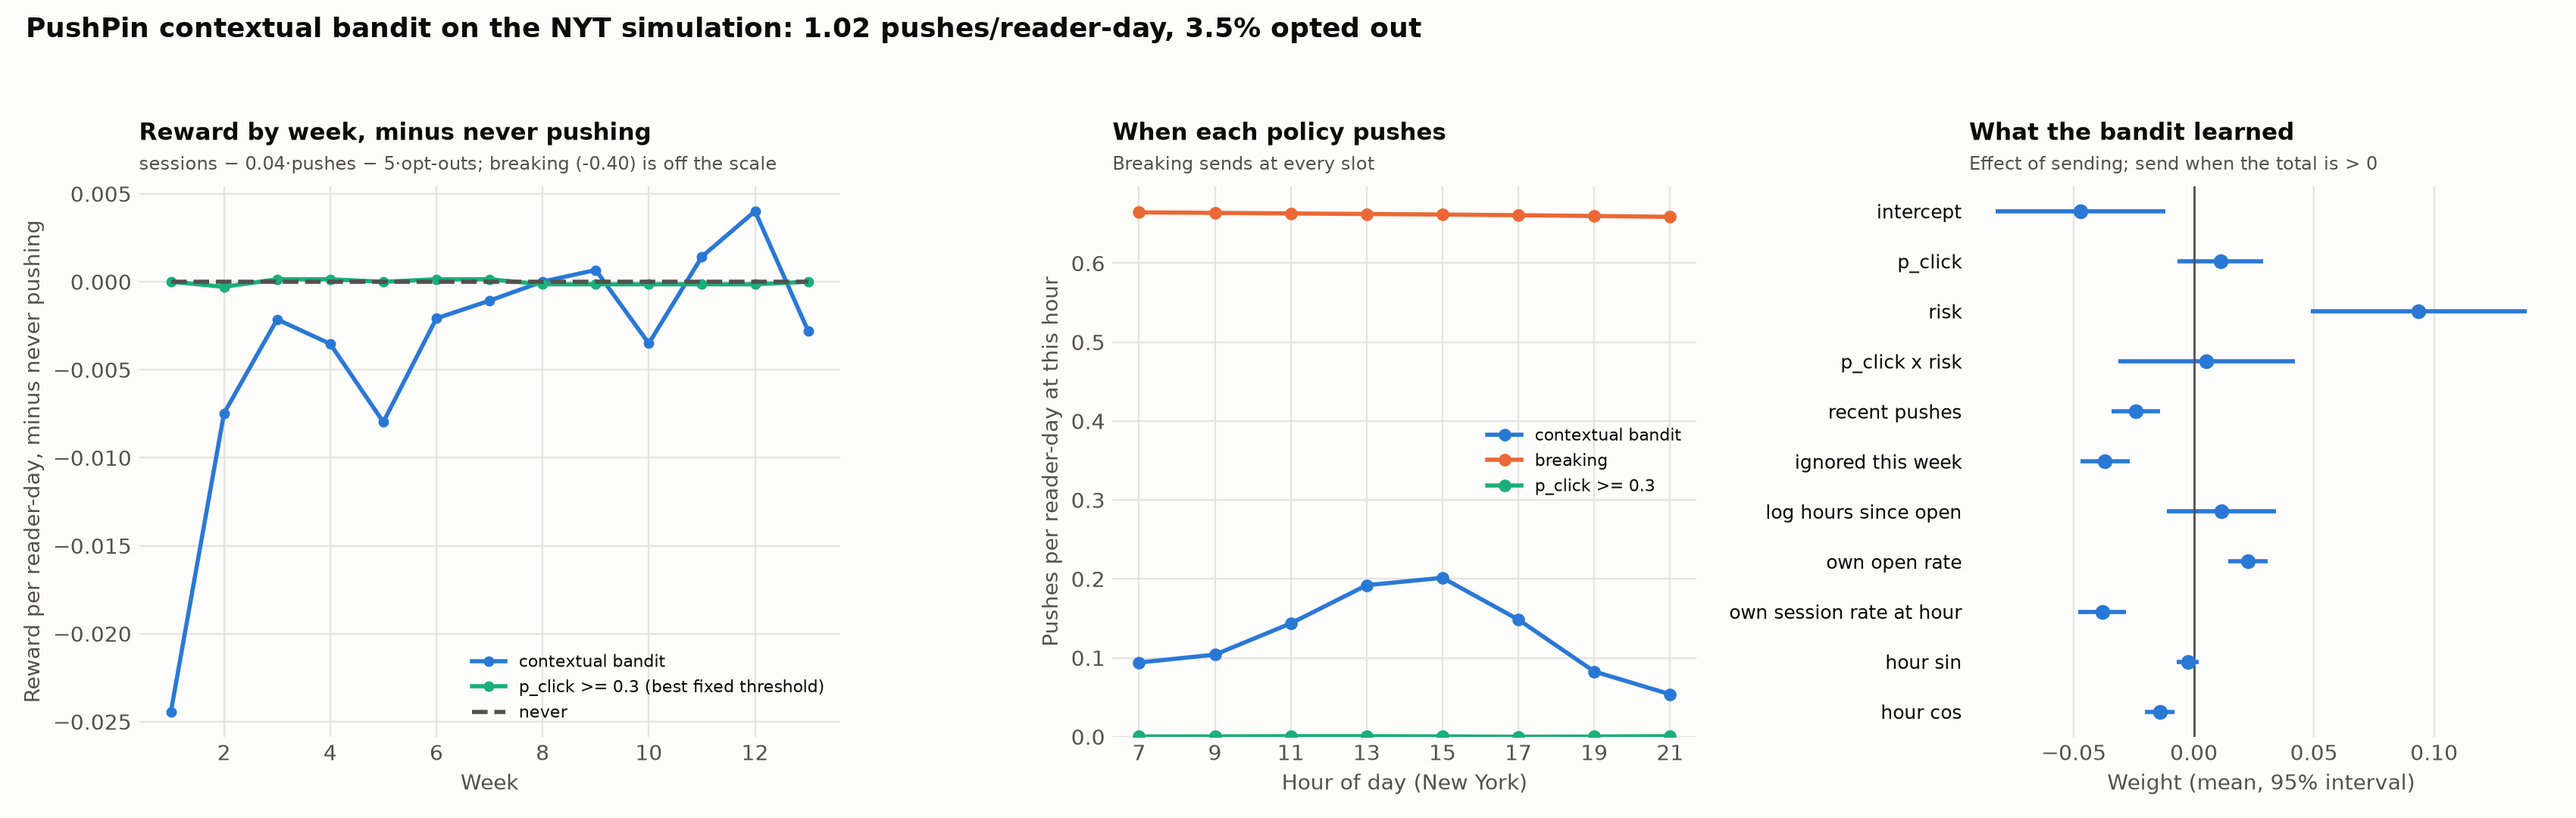
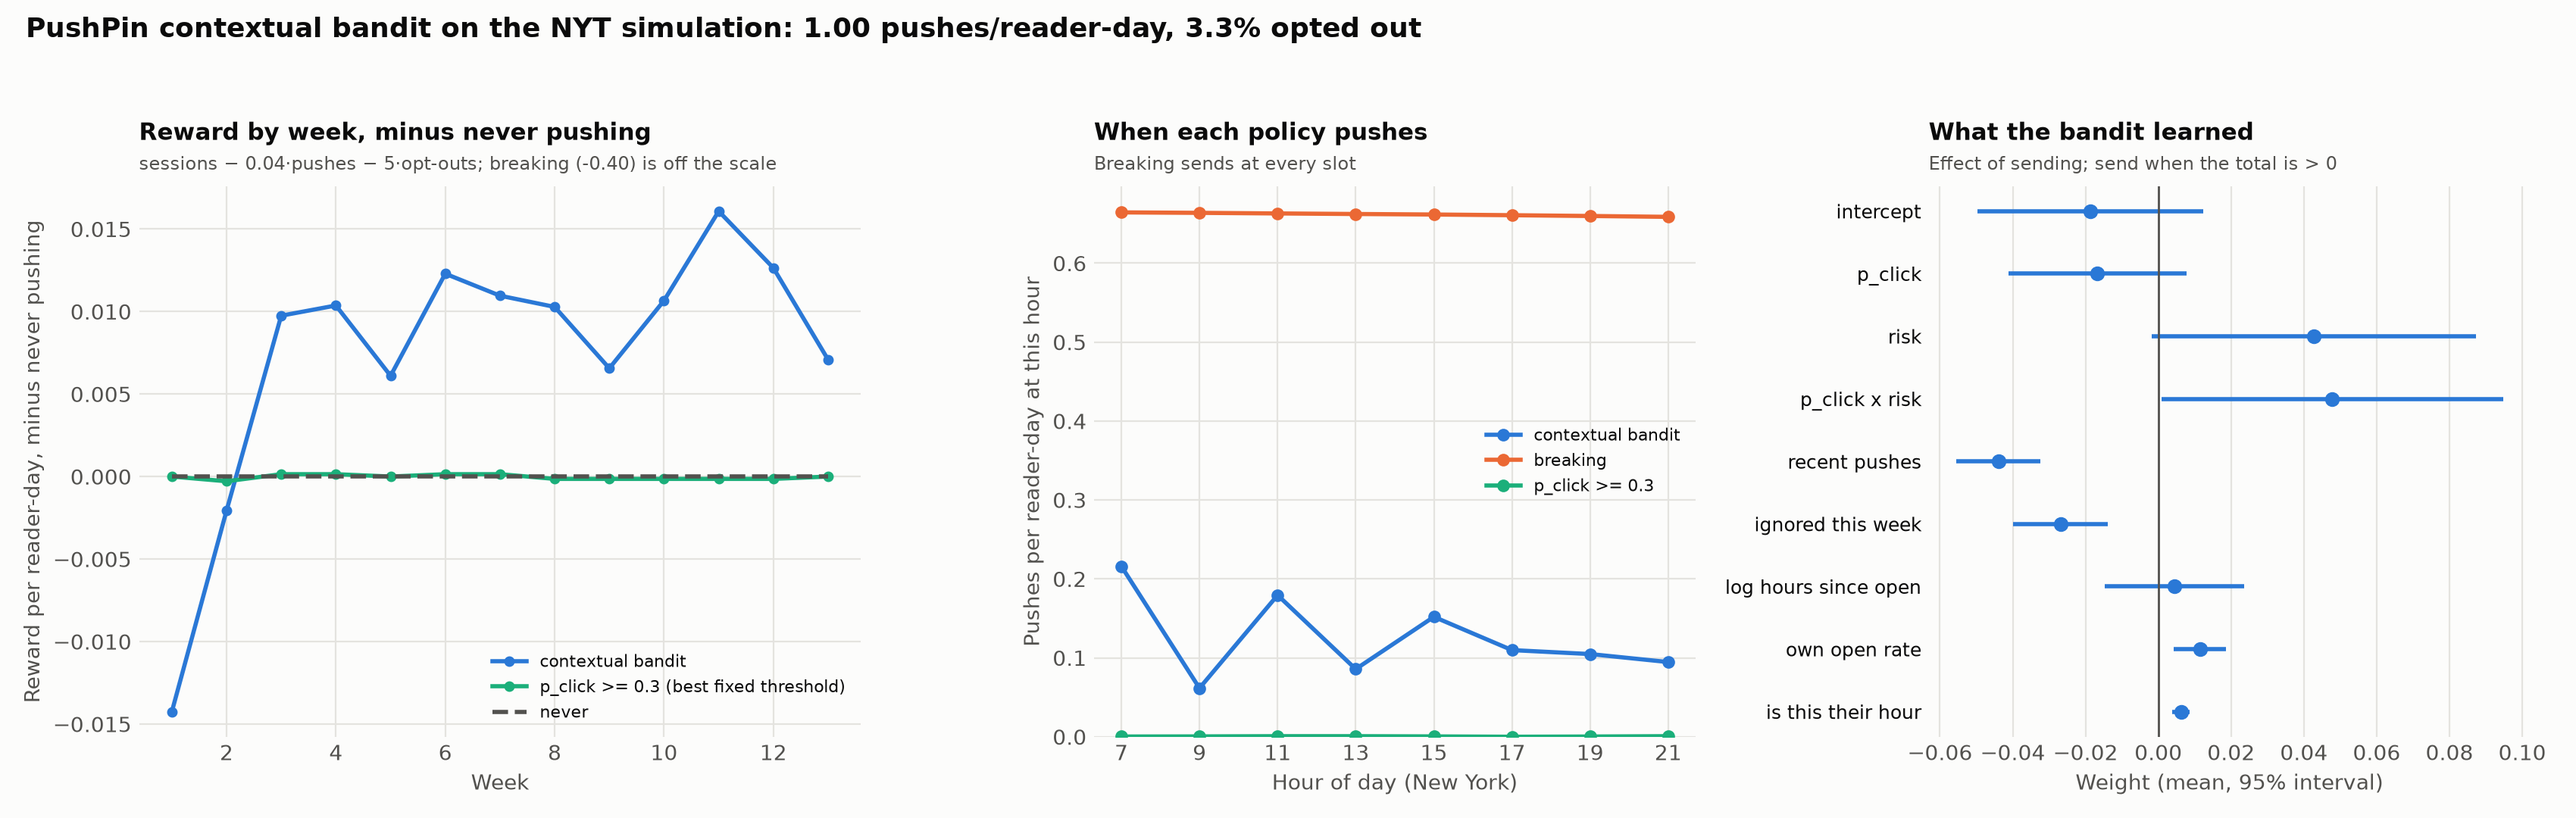
Bandit: personal timing instead of clock time; learn on reward minus the reader's organic rate
The hour sine/cosine pair drew one daily bump (midday) on noise; replaced by 'is this their hour'
(the reader's organic session rate at the hour over their own average, from slots without a push).
The learned weight still pointed away from readers' best hours: the linear model's misfit of the
multiplicative organic baseline leaked into the effect weights because sends aren't random.
Subtracting the reader's own organic rate at the hour from the reward fixes it (sends now 28% at a
reader's best hours vs 5% at their worst).

Results: +0.002 to +0.016 a reader-day vs never at lambda 0.02-0.04, where any fixed threshold gets ~0;
slightly negative at lambda 0.08. analysis.md gains the bandit's objective, model and decision rule.

diff --git a/src/pushpin/bandit.py b/src/pushpin/bandit.py
@@ -3,7 +3,8 @@
 XGBoost answers "which article?" (p_click, p_return). The bandit answers "send it now or not?"
 for the top pick at every slot, from context XGBoost doesn't model: how recently the reader was
 pushed, how many pushes they ignored this week, how long since they last opened one, their own
-open rate on our pushes, and when in the day they tend to come back. It maximizes
+open rate on our pushes, and whether this is an hour they tend to come back (relative to their
+own average, so it's separate from how often they come back at all). It maximizes
 
     reward = sessions - lambda * pushes - V * opt-outs        (lambda, V set by hand, in sessions)
 
@@ -35,7 +36,7 @@ import pandas as pd
 import yaml
 
 FEATURES = ["intercept", "p_click", "risk", "p_click x risk", "recent pushes", "ignored this week",
-            "log hours since open", "own open rate", "own session rate at hour", "hour sin", "hour cos"]
+            "log hours since open", "own open rate", "is this their hour"]
 
 
 # --- data -----------------------------------------------------------------------------------------
@@ -124,8 +125,10 @@ class LinearThompson:
 
 # --- the planted world, one policy over `weeks` -----------------------------------------------------
 
-def simulate(data: dict, traits: dict, cfg: dict, policy: str, lam: float, V: float, threshold: float | None = None):
-    """Run one policy. Returns per-slot totals (sessions, pushes, opens, opt-outs, reward) and the bandit."""
+def simulate(data: dict, traits: dict, cfg: dict, policy: str, lam: float, V: float, threshold: float | None = None,
+             trace: list | None = None):
+    """Run one policy. Returns per-slot totals (sessions, pushes, opens, opt-outs, reward) and the bandit.
+    With `trace` (a list), appends a per-decision frame for subscribed readers (diagnostics)."""
     p, seed, n = cfg["planted"], cfg["seed"], data["n"]
     slots_per_day = len(traits["day_hours"])
     days = 7 * cfg["weeks"]
@@ -175,11 +178,15 @@ def simulate(data: dict, traits: dict, cfg: dict, policy: str, lam: float, V: fl
 
             recent = (now - last_push < cfg["fatigue_hours"]).sum(axis=1)
             open_rate = (opens_n + 0.1) / (pushes_n + 2)
-            sess_rate = (sess_h[:, j] + 0.3) / (seen_h[:, j] + 2)
+            # "is this their hour?": the reader's session rate at this hour relative to their own
+            # average, from slots without a push (so our pushes don't feed back into it). It's
+            # separate from how often they come back at all, which risk already covers.
+            rate_here = (sess_h[:, j] + 0.3) / (seen_h[:, j] + 2)
+            rate_all = (sess_h.sum(axis=1) + 0.3 * slots_per_day) / (seen_h.sum(axis=1) + 2 * slots_per_day)
+            their_hour = rate_here / rate_all - 1
             z = np.column_stack([
                 np.ones(n), 10 * pc, 1 - pr, 10 * pc * (1 - pr), recent, ignored_by_day.sum(axis=1) / 10,
-                np.log1p(np.minimum(now - last_open, 168)) / 5, 10 * open_rate, 5 * sess_rate,
-                np.full(n, np.sin(2 * np.pi * hour / 24)), np.full(n, np.cos(2 * np.pi * hour / 24))])
+                np.log1p(np.minimum(now - last_open, 168)) / 5, 10 * open_rate, 2 * their_hour])
 
             can = active & avail
             if policy == "never":
@@ -203,15 +210,23 @@ def simulate(data: dict, traits: dict, cfg: dict, policy: str, lam: float, V: fl
             optout = ignored & (u_opt < p["optout_hazard"] * risk_mult * annoy / tol)
             reward = session - lam * send - V * optout
 
+            if trace is not None:
+                trace.append(pd.DataFrame({"day": day, "hour": int(hour), "reader": readers[active],
+                                           "their_hour": their_hour[active], "pref": pref[active],
+                                           "risk": 1 - pr[active], "send": send[active], "tau": tau[active],
+                                           "session": session[active], "reward": reward[active]}))
             if bandit is not None:  # learn from the decisions of readers still subscribed
-                bandit.add(z[active], send[active].astype(float), reward[active])
+                # subtract the reader's own organic session rate at this hour (estimated from slots
+                # without a push), so the model only explains what a push adds: a misfit baseline
+                # would otherwise leak into the effect weights, since sends aren't random
+                bandit.add(z[active], send[active].astype(float), (reward - rate_here)[active])
             pushed[readers[send], art[send]] = True
             last_push[send] = np.column_stack([last_push[send, 1:], np.full(send.sum(), now)])
             last_open[opened] = now
             pushes_n += send
             opens_n += opened
-            sess_h[:, j] += session
-            seen_h[:, j] += 1
+            sess_h[:, j] += session & ~send   # organic sessions only (see their_hour)
+            seen_h[:, j] += ~send
             ignored_by_day[:, day % 7] += ignored
             active &= ~optout
             rows.append({"day": day, "week": day // 7, "hour": int(hour), "sessions": int(session.sum()),

diff --git a/docs/bandit.md b/docs/bandit.md
@@ -65,11 +65,18 @@ skip from a context vector z:
 | pushes ignored this week | annoyance |
 | log hours since the last open | how engaged they are right now |
 | the reader's open rate on our pushes | their own response to *us* |
-| the reader's session rate at this hour | when they tend to come back |
-| hour of day (sin, cos) | population timing |
+| is this their hour: their organic session rate at this hour ÷ their own average, from slots without a push | personal timing, kept separate from how often they come back at all (which risk covers) |
 
-The model is a Bayesian linear regression of each decision's reward on `[z, send × z]`, with a
-Gaussian prior. The `send × z` weights θ are the effect of sending. **Thompson sampling** draws
+There's no clock-time feature. An earlier version had hour of day as a sine/cosine pair, which
+can only draw one bump per day. With the true average effect flat across hours, that bump landed
+at midday on noise.
+
+The model is a Bayesian linear regression on `[z, send × z]`, with a Gaussian prior. The target
+is each decision's reward minus the reader's own organic session rate at that hour (estimated
+from slots without a push), so the model only has to explain what a push adds. Without that, the
+linear model's misfit of the organic baseline (which is really `p_return × preference`) leaked
+into the effect weights, because sends aren't random. The bandit then learned to push *away*
+from readers' best hours, where the true effect is 2× larger. The `send × z` weights θ are the effect of sending. **Thompson sampling** draws
 θ from the posterior once per reader-day and sends when θ · z > 0. The posterior is refit every
 simulated night from all decisions so far (a batched bandit). Because z contains `p_click`, the
 rule is a threshold on `p_click` that moves with context: it rises after recent or ignored
@@ -118,28 +125,28 @@ Reward relative to never pushing, per reader-day, over 13 weeks:
 
 | λ | V | Bandit | Bandit pushes/day | Bandit opted out | Best threshold (c) | Best threshold | Breaking |
 |---|---|---|---|---|---|---|---|
-| 0.02 | 2 | **+0.0131** | 1.76 | 7.4% | 0.2 | +0.0003 | −0.27 |
-| 0.02 | 5 | **+0.0102** | 1.72 | 8.2% | 0.2 | +0.0003 | −0.29 |
-| 0.02 | 20 | **+0.0024** | 1.39 | 6.0% | 0.2 | +0.0003 | −0.39 |
-| 0.04 | 2 | −0.0027 | 1.03 | 2.8% | 0.3 | −0.0000 | −0.38 |
-| 0.04 | 5 | −0.0038 | 1.02 | 3.5% | 0.3 | −0.0000 | −0.40 |
-| 0.04 | 20 | −0.0058 | 0.86 | 2.5% | 0.3 | −0.0000 | −0.50 |
-| 0.08 | 2 | −0.0082 | 0.25 | 0.7% | 0.3 | −0.0002 | −0.59 |
-| 0.08 | 5 | −0.0079 | 0.22 | 0.6% | 0.3 | −0.0002 | −0.61 |
-| 0.08 | 20 | −0.0096 | 0.26 | 0.5% | 0.3 | −0.0002 | −0.71 |
+| 0.02 | 2 | **+0.0130** | 1.60 | 5.3% | 0.2 | +0.0003 | −0.27 |
+| 0.02 | 5 | **+0.0160** | 1.47 | 4.5% | 0.2 | +0.0003 | −0.29 |
+| 0.02 | 20 | **+0.0107** | 1.22 | 3.9% | 0.2 | +0.0003 | −0.39 |
+| 0.04 | 2 | **+0.0018** | 0.86 | 2.9% | 0.3 | −0.0000 | −0.38 |
+| 0.04 | 5 | **+0.0074** | 1.00 | 3.3% | 0.3 | −0.0000 | −0.40 |
+| 0.04 | 20 | **+0.0042** | 0.83 | 3.5% | 0.3 | −0.0000 | −0.50 |
+| 0.08 | 2 | −0.0060 | 0.52 | 1.3% | 0.3 | −0.0002 | −0.59 |
+| 0.08 | 5 | −0.0077 | 0.55 | 1.3% | 0.3 | −0.0002 | −0.61 |
+| 0.08 | 20 | −0.0039 | 0.47 | 0.8% | 0.3 | −0.0002 | −0.71 |
 
 - **Breaking is far worse everywhere.** Over 99% of its pushes are ignored, annoyance builds, and
   59% of readers turn notifications off.
-- **When pushes are cheap (λ = 0.02), the bandit is the only policy that gains**: +0.002 to
-  +0.013 a reader-day, while the best fixed threshold gets about zero.
-- **When pushes are expensive (λ ≥ 0.04), pushing barely pays in this world.** After
-  annoyance, the average push causes about 0.04 extra sessions, so the right answer is "almost
-  never push". A very high fixed threshold (0.2–0.3, under 0.05 pushes a day) gets there; the
-  bandit keeps pushing (1.0, then 0.25 a day) and ends 0.003–0.010 below never.
-- **The bandit reacts to the prices in the right direction.** It pushes less as λ rises
-  (1.7 → 1.0 → 0.25 a day) and as V rises (fewer opt-outs).
-- **It's still learning at 13 weeks.** At λ = 0.04, V = 5, its weekly reward climbs from −0.025
-  in week 1 to around 0 from week 8 on (left panel below).
+- **At λ = 0.02 and 0.04, the bandit is the only policy that gains:** +0.002 to +0.016 a
+  reader-day over never pushing, while the best fixed threshold gets about zero. A rule
+  without context can't find pushes worth their cost; the bandit finds them by reader and moment.
+- **At λ = 0.08, pushing doesn't pay in this world**, and the right answer is "almost never
+  push". A very high fixed threshold (0.3, under 0.01 pushes a day) gets there. The bandit pushes
+  about 0.5 a day and ends 0.004–0.008 below never.
+- **It reacts to the prices in the right direction.** It pushes less as λ rises
+  (1.2–1.6 → 0.8–1.0 a day) and as V rises.
+- **It learns within weeks.** At λ = 0.04, V = 5 it loses in week 1 (−0.014, exploring) and is
+  ahead of never pushing from week 3 on (+0.006 to +0.016 a week; left panel below).
 
 ## What it learned
 
@@ -147,16 +154,18 @@ Reward relative to never pushing, per reader-day, over 13 weeks:
 
 Posterior means of the effect-of-sending weights at λ = 0.04, V = 5:
 
-- **Risk: +0.094 (± 0.023).** Push at-risk readers more, even though they quit more easily
-  when annoyed. Here the larger effect wins, which is the opposite sign to the old rule's
-  `+0.04 × (1 − p_return)` in the threshold.
-- **Push history:** recent pushes −0.024, pushes ignored this week −0.037, the reader's own open
-  rate +0.023. Back off after pushes and after ignored ones; keep pushing readers who open.
-- **Own session rate at this hour: −0.038.** It pushes less at hours a reader comes back anyway,
-  since the push has less to add then.
-- **Timing:** most pushes go out at 13–15, fewest at 7 and 21 (middle panel).
-- **`p_click`: +0.011 (± 0.009), small and uncertain.** The learned bar depends mostly on risk
-  and push history, not on how appealing the pick is.
+- **Risk: +0.043, and p_click × risk: +0.048.** Push at-risk readers more, and more so when the
+  pick is appealing, even though at-risk readers quit more easily when annoyed. Here the larger
+  effect wins: the opposite of the old rule's `+0.04 × (1 − p_return)` in the threshold.
+- **Push history:** recent pushes −0.044, pushes ignored this week −0.027, the reader's own open
+  rate +0.011. Back off after pushes and after ignored ones; keep pushing readers who open.
+- **Is this their hour: +0.006 per unit (± 0.001).** It pushes at readers' own best times: in
+  the last three weeks it sends 28% of decisions at a reader's best hours and 5% at their worst,
+  where the true effect is about half as large. Because of the 4-hour fatigue window, a push at
+  7 makes 9 costly, so pushes per hour alternate (middle panel).
+- **`p_click` alone: −0.017 (± 0.012), uncertain.** Its effect shows up through the
+  interaction with risk instead: an appealing pick is worth sending mainly to readers who
+  wouldn't come back on their own.
 
 ## Limitations
 
@@ -165,11 +174,12 @@ Posterior means of the effect-of-sending weights at λ = 0.04, V = 5:
 - **Carryover isn't credited.** Each decision's reward is its own slot's session, push cost and
   opt-out. An ignored push also lowers later effects and opens (annoyance decays over days), and
   that later cost isn't charged to the push that caused it. This is the likely reason the bandit
-  over-pushes at λ ≥ 0.04. Fixes: a longer reward window per decision, or pricing annoyance
+  over-pushes at λ = 0.08. Fixes: a longer reward window per decision, or pricing annoyance
   directly (a third price), or a reinforcement-learning view of the reader's state.
 - **Exploration cost.** Thompson sampling keeps trying sends while uncertain; with 1,000 readers
   that cost is visible over 13 weeks.
-- **Linear in z.** Interactions beyond `p_click × risk` aren't modeled.
+- **Linear in z.** Interactions beyond `p_click × risk` aren't modeled. The organic baseline is
+  subtracted using the bandit's own estimate, which is noisy for new readers.
 - **Live needs an outcome without a push.** The reward needs sessions in both arms. Live, that
   means per-reader delivery (one ntfy topic per reader) and an observable visit (e.g. opening
   `/me`); see [uplift.md](uplift.md#live-data).

diff --git a/docs/analysis.md b/docs/analysis.md
@@ -1,4 +1,4 @@
-# Analysis: objective, calibration, send policy, user behavior, tuning
+# Analysis: objective, calibration, send policy, the bandit's objective, user behavior, tuning
 
 Deep dives behind the numbers in the [README](../README.md). Images are produced by `src/pushpin/plots.py`.
 
@@ -151,6 +151,66 @@ Raising the threshold trades volume for quality as intended. At the default, low
 0.82 pushes/day at 9.3% CTR and high-risk users 0.15/day at 5.3%. The model over-predicts
 on this slice, most for high-risk users, which is the impression-size caveat above plus a sign
 that a production calibrator should be fit per user segment.
+
+## Send decision: the contextual bandit's objective
+
+The fixed send policy above is being replaced by a contextual bandit (simulation only so far;
+full write-up and results in [bandit.md](bandit.md)). XGBoost still picks the article. The bandit
+decides, for that pick, whether to send it now.
+
+**The objective.** Maximize the expected total reward over all readers and slots:
+
+```
+maximize  E[ Σ over readers r and slots t of  reward(r, t) ]
+
+reward(r, t) = session(r, t) − λ · send(r, t) − V · optout(r, t)
+```
+
+- `session` = 1 if the reader comes back in that slot's window, whether or not a push was sent.
+- `send` = 1 if a push went out. λ is the cost of one push, in sessions (default 0.04: a push
+  must cause at least 1 extra visit per 25 sends).
+- `optout` = 1 if the reader turned notifications off then. V is the cost of losing them, in
+  sessions (default 5: about 180 days × ~1 push a day × ~0.03 net per push).
+
+λ and V are prices set by hand, not learned; results are reported across
+λ ∈ {0.02, 0.04, 0.08} × V ∈ {2, 5, 20}.
+
+**The model.** For each decision with context z (`p_click`, risk = 1 − `p_return`, their
+product, recent pushes, pushes ignored this week, log hours since the last open, the reader's
+open rate on our pushes, and whether this is their hour), a Bayesian linear regression:
+
+```
+reward − ŷ0  =  β · z  +  send · (θ · z)  +  noise,     noise ~ N(0, σ²),  (β, θ) ~ N(0, τ0² I)
+```
+
+ŷ0 is the reader's own organic session rate at that hour, estimated from slots without a push.
+Subtracting it leaves the model only what a push adds. θ · z is the **effect of sending**: the
+expected change in reward from sending rather than skipping.
+
+**The decision rule (Thompson sampling).** Once per reader-day, draw θ̃ from the posterior and
+
+```
+send  if  θ̃ · z > 0
+```
+
+The posterior is refit every night from all decisions so far (σ = 0.4, τ0 = 1). Drawing θ̃
+rather than using its mean is the exploration: uncertain weights sometimes say "send", which
+gathers the data that resolves them.
+
+**As a threshold.** Because z contains `p_click`, alone and times risk, the rule rearranges into a
+threshold on `p_click` that moves with context:
+
+```
+send  if  p_click ≥ threshold(z) = − θ̃_rest · z_rest / (θ̃_pclick + θ̃_pclick×risk · risk)
+```
+
+where `θ̃_rest · z_rest` is the sum over every other feature. It reads as a threshold only when
+the denominator is positive, i.e. a more appealing pick makes sending better for that reader.
+Compared with the fixed rule `0.07 + 0.04 · (1 − p_return)`:
+- the risk term's size and sign are learned, not fixed at +0.04;
+- the bar rises after recent and ignored pushes;
+- it falls at the reader's own best hours;
+- there is no daily cap: the weights on recent and ignored pushes take its place.
 
 ## Production: plugging in real opt-out data
 

diff --git a/README.md b/README.md
@@ -58,10 +58,10 @@ On a held-out day (1.22M candidates):
 - **Contextual bandit (when to push):** on the same simulation with planted annoyance and
   opt-outs, pushing the latest breaking story at all 8 slots loses 0.27–0.71 sessions per
   reader-day vs never pushing, and 59% of readers turn notifications off. The bandit learns from
-  push history (back off after ignored pushes, push at-risk readers more). It gains when pushes
-  are cheap (λ = 0.02: +0.010 a reader-day, where any fixed threshold gets ~0). When pushes are
-  expensive it over-pushes slightly (it doesn't credit annoyance's lasting cost). See
-  [docs/bandit.md](docs/bandit.md).
+  push history and timing (back off after ignored pushes, push at-risk readers more, push at
+  each reader's own best hours). It gains +0.002 to +0.016 a reader-day when a push costs
+  λ = 0.02–0.04 sessions, where any fixed threshold gets ~0. At λ = 0.08 it over-pushes slightly
+  (it doesn't credit annoyance's lasting cost). See [docs/bandit.md](docs/bandit.md).
 
 Details: [docs/model.md](docs/model.md) and [docs/analysis.md](docs/analysis.md).
 
